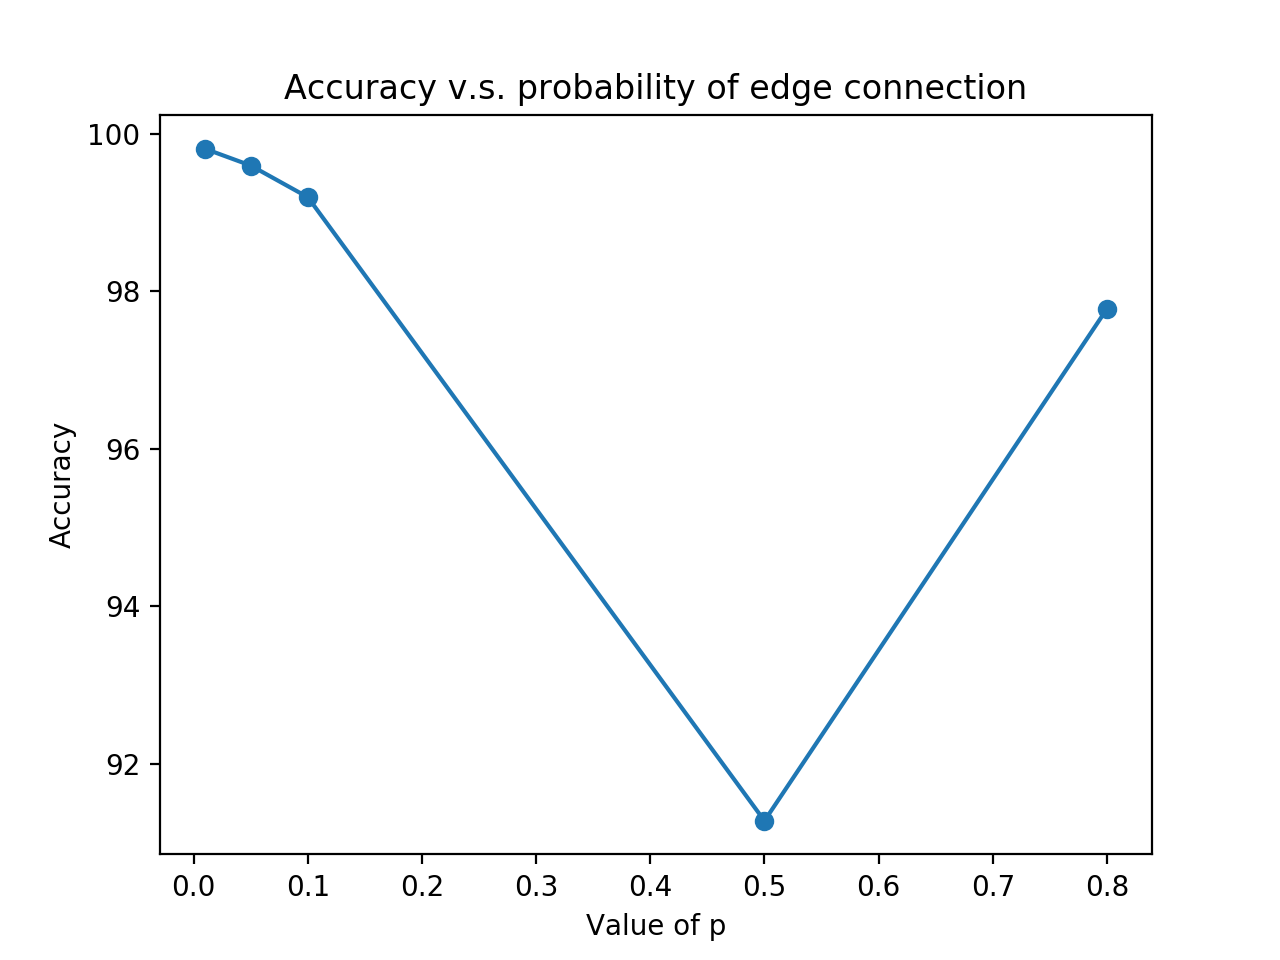
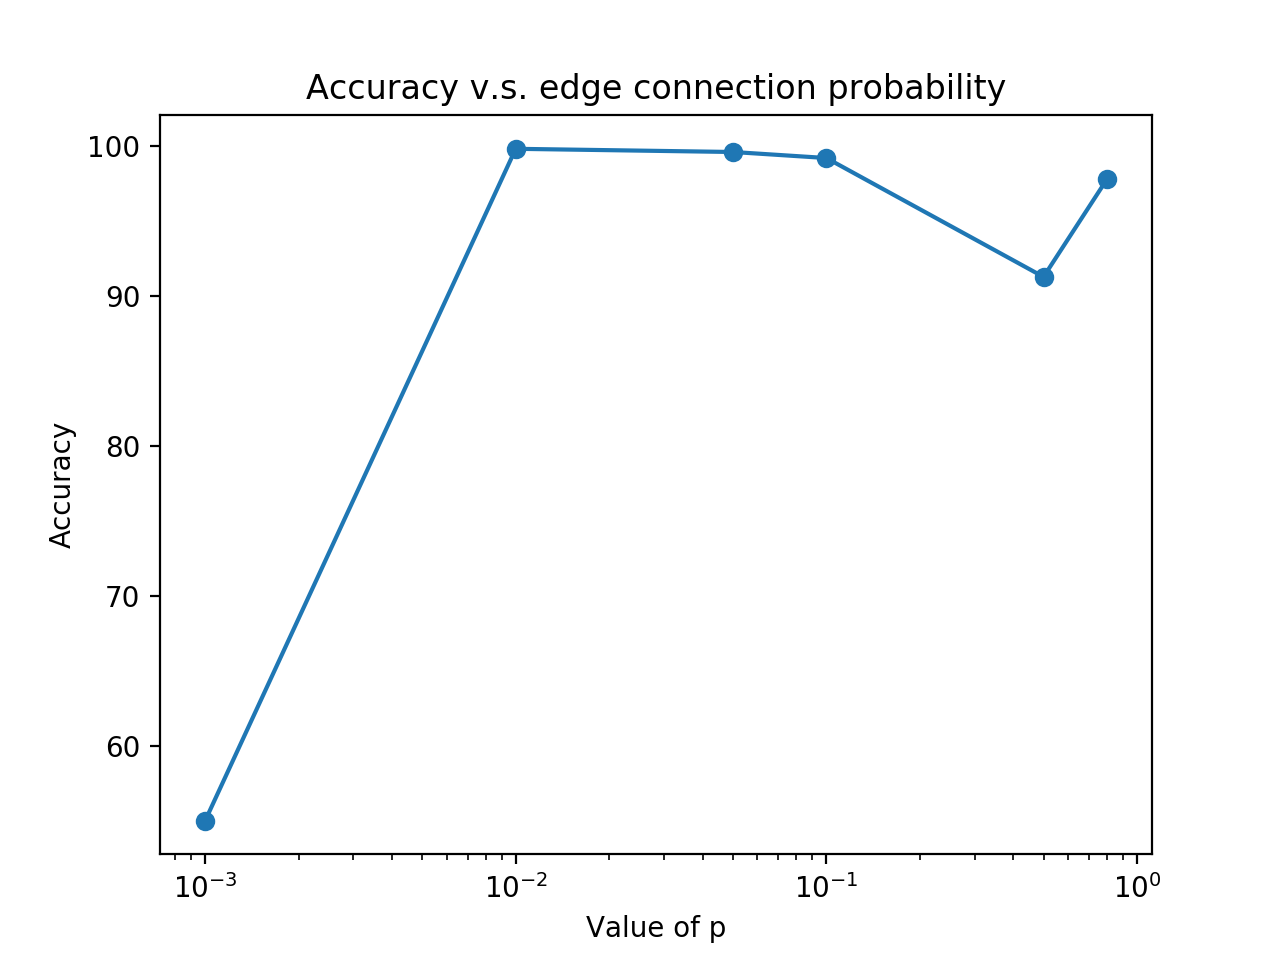
semilog scale

diff --git a/assembly/comparison_plot.py b/assembly/comparison_plot.py
@@ -1,7 +1,9 @@
 import matplotlib.pyplot as plt
 import numpy as np
 
-data = np.genfromtxt('data/comparison_k.csv', delimiter=',', skip_header=1)
+# PLOT WITH SEMILOG ON X AXIS 
+
+data = np.genfromtxt('data/comparison_n.csv', delimiter=',', skip_header=1)
 # print(accuracies)
 
 p_vals = []
@@ -19,14 +21,22 @@ for row in data:
 
 
 	
-plt.plot(p_vals,median_accuracies, marker='o')
-plt.title("Accuracy v.s. capped neurons")
-plt.xlabel("Value of k")
+plt.semilogx(p_vals,median_accuracies, marker='o')
+plt.title("Accuracy v.s. assembly size")
+plt.xlabel("Value of n")
+# plt.title("Accuracy v.s. edge connection probability")
+# plt.xlabel("Value of p")
+# plt.title("Accuracy v.s. capped neurons")
+# plt.xlabel("Value of k")
 plt.ylabel("Accuracy")
 plt.show()
 
-plt.plot(p_vals,results_with_over_99_percent_accuracies, marker='o')
-plt.title("Fraction of high-accuracy results v.s. capped neurons")
-plt.xlabel("Value of k")
+plt.semilogx(p_vals,results_with_over_99_percent_accuracies, marker='o')
+plt.title("Fraction of high-accuracy results v.s. assembly size")
+plt.xlabel("Value of n")
+# plt.title("Fraction of high-accuracy results v.s. edge connection probability")
+# plt.xlabel("Value of p")
+# plt.title("Fraction of high-accuracy results v.s. capped neurons")
+# plt.xlabel("Value of k")
 plt.ylabel("Fraction of results with over 99% accuracy")
 plt.show()
